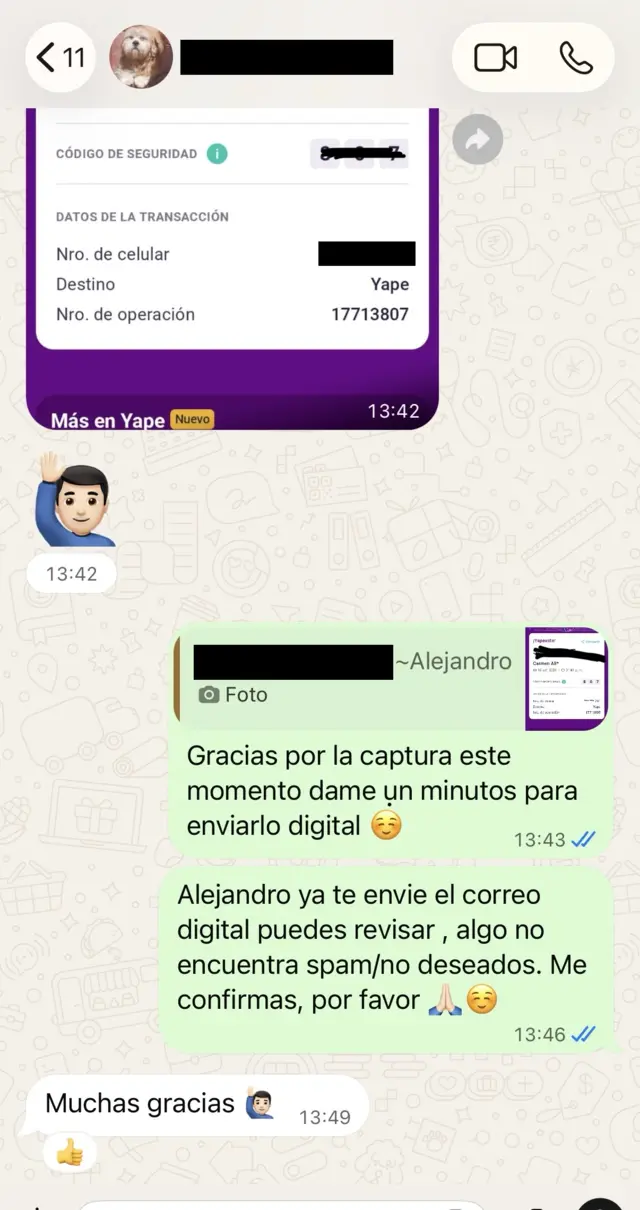
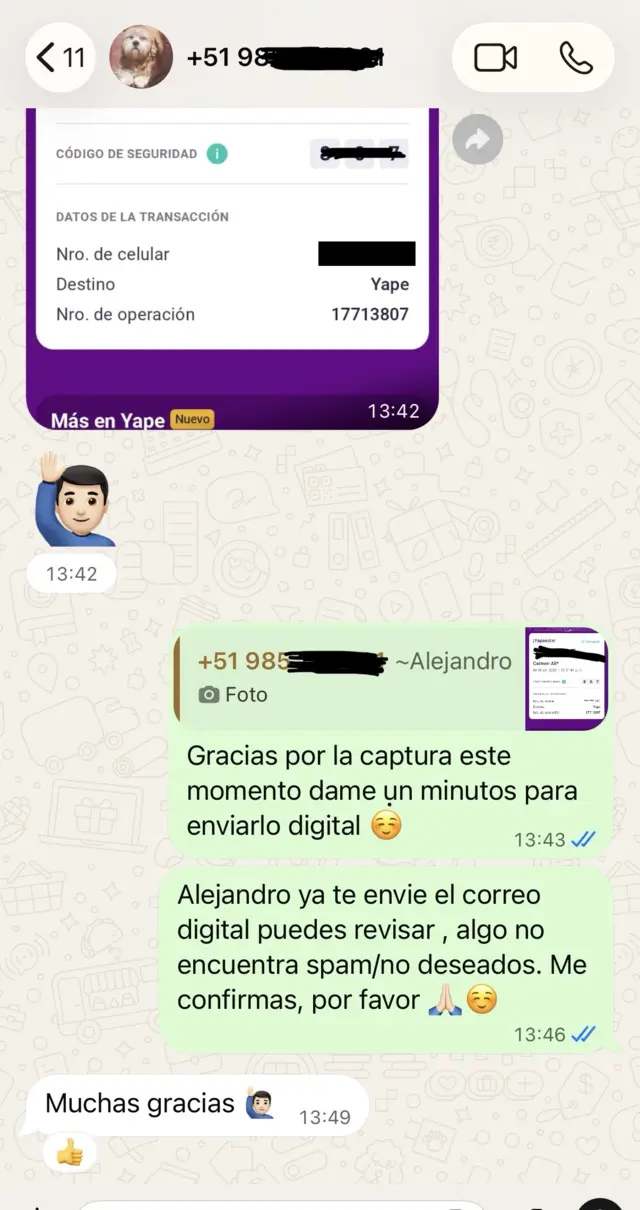
Patrones: captura de Perú con el +51 visible como lo tapó el dueño; solo se tapa el Nro. de celular del comprobante
Claude-Session: https://claude.ai/code/session_01BGB48LdfbLWXGgwRhZvKy4

Changed region(s): [[0.2812, 0.5198, 0.625, 0.581], [0.2812, 0.0306, 0.625, 0.0612]]

diff --git a/AGENTS.md b/AGENTS.md
@@ -41,4 +41,4 @@
 - Patrones sin menú (iLingue): `ProductPatronesEspeciales` ya NO muestra el `Navbar` (menú/header), a pedido del dueño; solo esa página. Arriba va solo la cinta de Black Friday.
 - Estructura de Patrones (iLingue): orden = héroe (sin «Nuevo Lanzamiento»; lista «Incluye» + enlace «Ver vista previa del PDF») → dolores → comparativa → video → «Lo que vas a lograr» → «Qué incluye» (ebook + 3 bonos, botón y vista previa) → «Vista previa real» (+ bonos) → UNA sola sección de reseñas (WhatsApp reales + opiniones escritas) → cierre «¿Listo?» con botón → FAQ. SIN el círculo de WhatsApp ni el botón de subir (el soporte vive en el checkout; no tocarlo). No repetir bonos/beneficios en más de un bloque.
 - Galería de Patrones (iLingue, `ProductGallerySlider.tsx`): la imagen del producto es un slider MANUAL tipo Shopify (deslizar con el dedo con scroll-snap, flechas, contador y miniaturas, sin autoplay). La diapositiva 1 es la portada con su carga prioritaria intacta (`heroLight`/srcset, `fetchPriority="high"`); las demás cargan perezosas. Usa las vistas del admin (`galleryImages`) y, si no hay ninguna, las 4 páginas reales del PDF (`previews`).
-- Atención posventa en Patrones (iLingue, `SupportProofSlider.tsx`, `supportShots` en `ProductPatronesEspeciales`): sección «Gracias por su confianza» (NO son reseñas) con capturas REALES de WhatsApp (Perú, México, España; hay lugar para EE. UU.) que muestran soporte tras la compra: pago manual, actualización del material, audio de Spotify, correo en spam. Slider manual sin autoplay, webp livianos de 640 px con ancho/alto fijos en `public/soporte-patrones/`. REGLA: no editar ni usar IA; el dueño tapa a mano teléfonos, correos, enlaces y nombres ANTES de subir. Antes de publicar una captura nueva, revisar que no se vea un teléfono completo, correo, nombre y apellido ni comprobante de pago. La de Perú (Yape) va completa con el comprobante, pero con los 3 teléfonos tapados con barras negras (encabezado, «Nro. de celular» y la respuesta citada), a pedido del dueño. Se dejaron fuera dos capturas (EE. UU. con teléfono completo en la respuesta citada; México con nombre completo) hasta que el dueño las envíe retapadas.
+- Atención posventa en Patrones (iLingue, `SupportProofSlider.tsx`, `supportShots` en `ProductPatronesEspeciales`): sección «Gracias por su confianza» (NO son reseñas) con capturas REALES de WhatsApp (Perú, México, España; hay lugar para EE. UU.) que muestran soporte tras la compra: pago manual, actualización del material, audio de Spotify, correo en spam. Slider manual sin autoplay, webp livianos de 640 px con ancho/alto fijos en `public/soporte-patrones/`. REGLA: no editar ni usar IA; el dueño tapa a mano teléfonos, correos, enlaces y nombres ANTES de subir. Antes de publicar una captura nueva, revisar que no se vea un teléfono completo, correo, nombre y apellido ni comprobante de pago. La de Perú (Yape) va completa con el comprobante, con los teléfonos +51 del encabezado y de la respuesta citada tal como los tapó el dueño (prefijo visible) y el «Nro. de celular» del comprobante tapado con una barra negra, a pedido del dueño. Se dejaron fuera dos capturas (EE. UU. con teléfono completo en la respuesta citada; México con nombre completo) hasta que el dueño las envíe retapadas.
